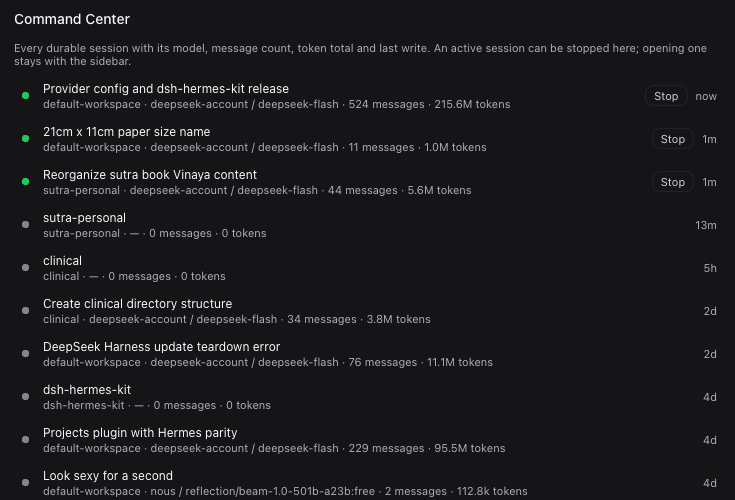
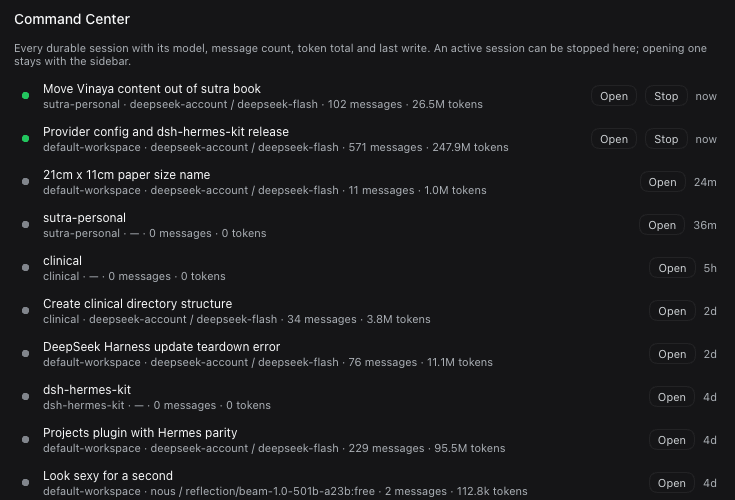
Command Center: open a session from the panel

diff --git a/packages/toolbox/client.js b/packages/toolbox/client.js
@@ -470,7 +470,7 @@ window.__ModuleLoader__.load({
       )
     }
 
-    function CommandTab({ t, stop }) {
+    function CommandTab({ t, stop, open }) {
       const [data, setData] = useState(null)
       const [error, setError] = useState(null)
       const [stopping, setStopping] = useState(null)
@@ -511,6 +511,11 @@ window.__ModuleLoader__.load({
               `${workspace(row.cwd)} · ${row.model || '—'} · ${row.messages} ${t('sessions.messagesShort')} · ${n(row.tokens)} ${t('sessions.tokensShort')}`,
             ),
           ),
+          h('button', {
+            type: 'button',
+            className: 'tbx-btn',
+            onClick: () => open(row.id),
+          }, t('command.open')),
           row.active
             ? h('button', {
                 type: 'button',
@@ -524,14 +529,14 @@ window.__ModuleLoader__.load({
       )
     }
 
-    function CommandPage({ t, stop }) {
+    function CommandPage({ t, stop, open }) {
       return h(
         'div',
         { className: 'tbx-page' },
         h('div', { className: 'tbx-head' }, h('span', { className: 'tbx-title' }, t('command.title'))),
         h('div', { className: 'tbx-body' },
           h('div', { className: 'tbx-note' }, t('command.note')),
-          h(CommandTab, { t, stop }),
+          h(CommandTab, { t, stop, open }),
         ),
       )
     }
@@ -643,6 +648,7 @@ window.__ModuleLoader__.load({
       'command.title': 'Command Center',
       'command.note': 'Every durable session with its model, message count, token total and last write. An active session can be stopped here; opening one stays with the sidebar.',
       'command.empty': 'No sessions found.',
+      'command.open': 'Open',
       'command.stop': 'Stop',
       'command.stopping': 'Stopping…',
       'command.stopFailed': 'The session did not accept the stop request.',
@@ -703,6 +709,7 @@ window.__ModuleLoader__.load({
       'command.title': '指挥中心',
       'command.note': '每个持久会话的模型、消息数、token 总量与最近写入。活跃会话可在此停止；打开会话仍使用左侧边栏。',
       'command.empty': '没有会话。',
+      'command.open': '打开',
       'command.stop': '停止',
       'command.stopping': '停止中…',
       'command.stopFailed': '会话没有接受停止请求。',
@@ -756,6 +763,10 @@ window.__ModuleLoader__.load({
       ctx.effect(() => ctx.locale.register(NS, { en, zh }), 'toolbox: dictionaries')
       const t = ctx.locale.bind(NS)
       const stopSession = (sessionId) => ctx.remote.session.cancel({ sessionId })
+      let openSession = () => {}
+      ctx.inject(['uiWorkspace'], (scope) => {
+        openSession = (sessionId) => scope.uiWorkspace.openSession(sessionId)
+      })
       const rows = [
         { key: 'skills', order: 23, label: 'skills.title', icon: SkillsIcon },
         { key: 'providers', order: 24, label: 'providers.title', icon: ProvidersIcon },
@@ -774,7 +785,7 @@ window.__ModuleLoader__.load({
         skills: SkillsPage,
         providers: ProvidersPage,
         kanban: KanbanPage,
-        command: (props) => h(CommandPage, { ...props, stop: stopSession }),
+        command: (props) => h(CommandPage, { ...props, stop: stopSession, open: (id) => openSession(id) }),
       }
       for (const key of Object.keys(pages)) {
         ctx.slots.inject('main', () =>

diff --git a/packages/toolbox/README.md b/packages/toolbox/README.md
@@ -5,7 +5,7 @@ A Toolbox package for DeepSeek Harness that registers four separate sidebar pane
 - **Skills** — every skill in `~/.dsh/skills` plus the retired set in `~/.dsh/skills-retired`, with the curator's load count and last-seen time, sortable by loads/recent/name, a "never fired" filter, duplicate-name badges, and a switch that moves a skill between the two directories. Disabling is a directory move, because a leading dot does not hide a skill from DSH's catalogue.
 - **Providers** — per provider/model totals read from the newest 40 session logs (concatenated zstd JSONL): messages, input/output/cache tokens, mean response time, error count, last used. Cached for a minute on the Host. A **Test** button makes one timed one-token call through `ctx.llm` to that route and reports first-chunk and total time.
 - **Kanban** — a three-column board persisted at `~/.dsh/toolbox/board.json`: drag to any position, double-click to edit a card, add and remove. A Host `kanban` tool (`list` / `add` / `move` / `remove`) lets the agent read and change the same board.
-- **Command Center** — every durable session with status, model, message count, token total and last write, read from the session logs. Active rows carry a **Stop** button wired to `session/cancel`; opening a session stays with the sidebar.
+- **Command Center** — every durable session with status, model, message count, token total and last write, read from the session logs. **Open** calls `uiWorkspace.openSession`; active rows carry a **Stop** button wired to `session/cancel`.
 
 Host routes, all under `/api/toolbox/`:
 

diff --git a/TODO.md b/TODO.md
@@ -3,7 +3,7 @@
 ## Next
 
 - [ ] Session import from ChatGPT / Claude exports (needs a validated session-file writer; verify with a relaunch)
-- [ ] Command Center: open and steer (needs the workspace selection API); Stop shipped
+- [ ] Command Center: steer (queue edit) still open; Open and Stop shipped
 - [ ] Command Center actions: open, steer, stop (needs the live session projection API, not just log files)
 
 ## Later
@@ -21,6 +21,7 @@
 - [x] Skills sort, never-fired filter, duplicate-name badges
 - [x] Provider mean response time
 - [x] Command Center Stop (session/cancel)
+- [x] Command Center Open (uiWorkspace.openSession)
 - [x] `kanban` agent tool (list/add/move/remove)
 - [x] Provider Test button (one-token ping)
 - [x] One-command installer and CLI kit (memory, checkpoints, curator, registry, skill audit)

diff --git a/docs/improvements.md b/docs/improvements.md
@@ -101,7 +101,7 @@ Ten to fifteen concrete next steps for every surface shipped with the kit. Effor
 
 ## Command Center
 
-1. **Open** — click a row to focus that session. (L — client session-open API)
+1. **Open** — click a row to focus that session. (L — client session-open API) ✅ shipped via `uiWorkspace.openSession`
 2. **Stop / steer** — `session/cancel` and queue edits with confirmation. (L) ◐ shipped: Stop wired to `session/cancel`; steer still open
 3. **Live state** — running/awaiting from the client session store, not log mtime. (M)
 4. **Pending approvals** — show which sessions are blocked on a question. (M)

diff --git a/README.md b/README.md
@@ -78,7 +78,7 @@ Four separate sidebar panels from one package.
 
 ![Kanban board](docs/images/toolbox-kanban.png)
 
-**Command Center** — every durable session with its status, model, message count, token total and last write, plus a **Stop** button that cancels an active session's current turn. Opening a session still happens from the sidebar.
+**Command Center** — every durable session with its status, model, message count, token total and last write. **Open** switches the main view to that session; **Stop** cancels an active session's current turn.
 
 ![Command Center](docs/images/command-center.png)
 
